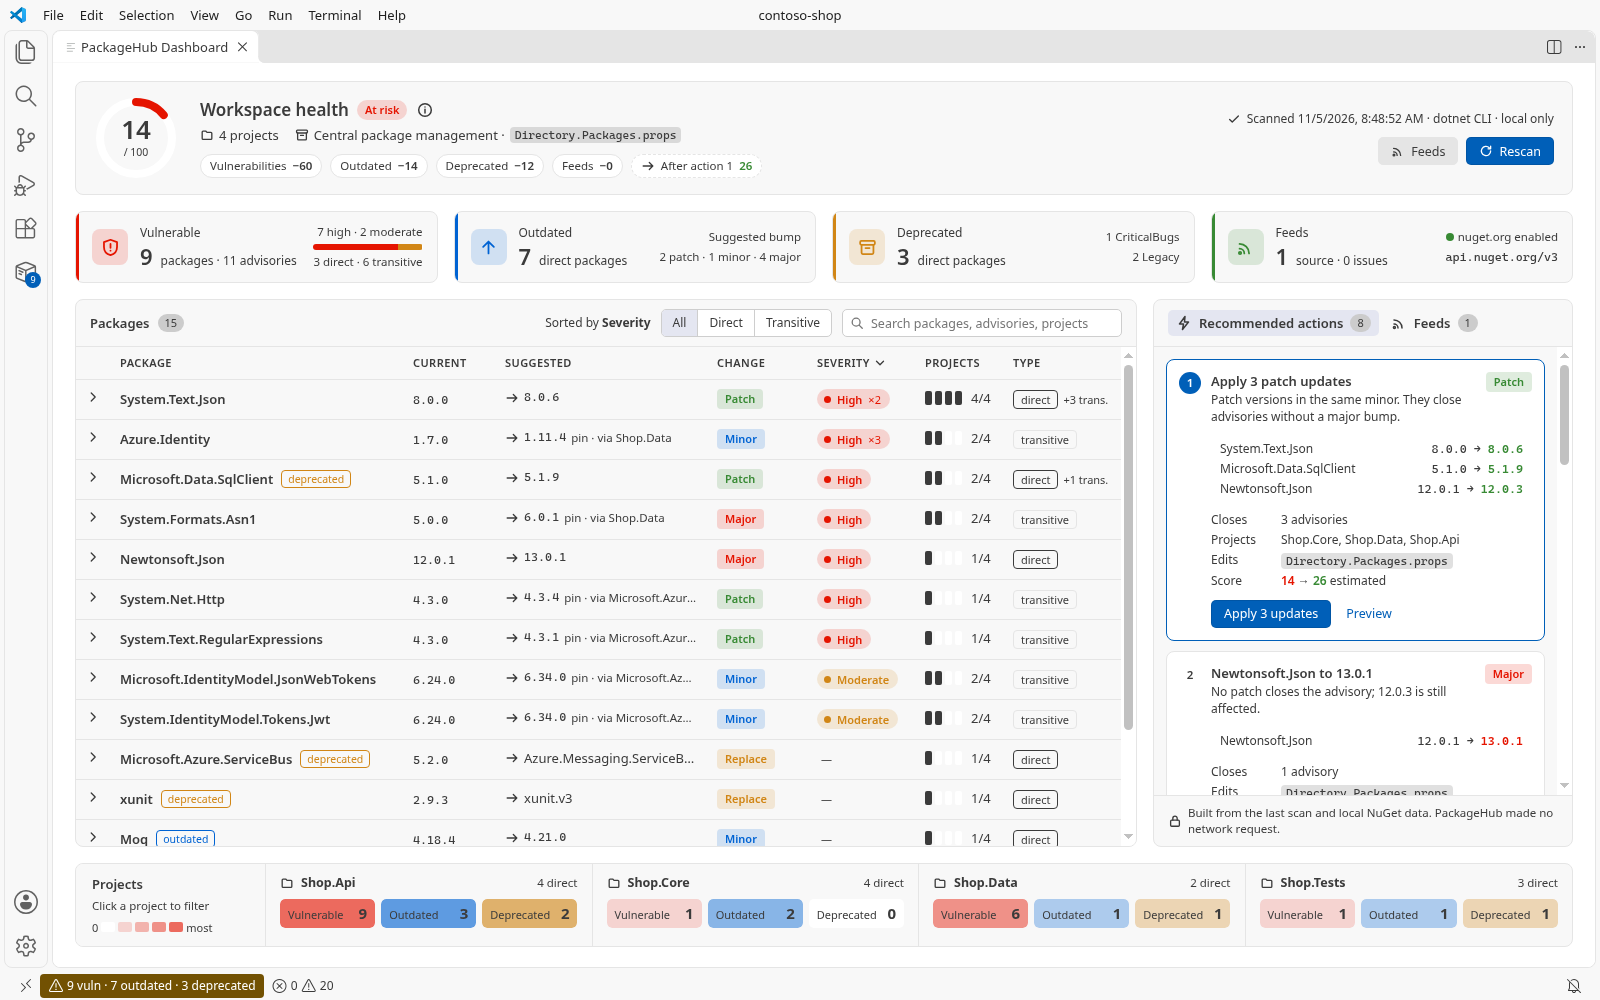
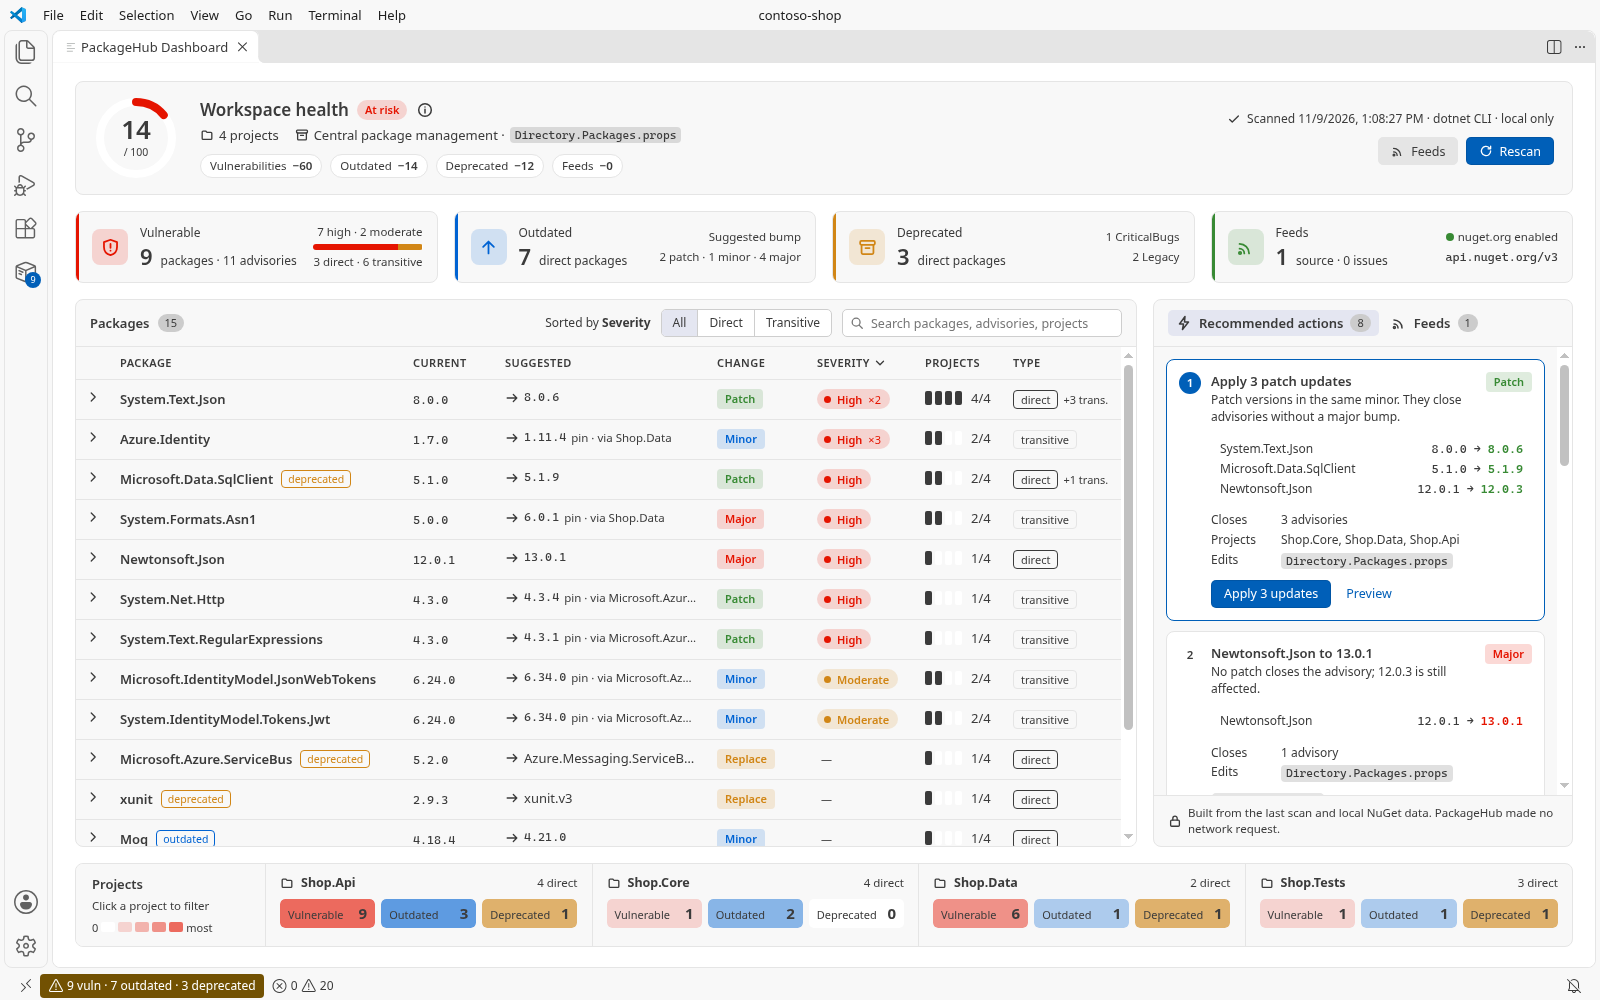
docs: note the dashboard fixes and refresh its screenshots

diff --git a/README.md b/README.md
@@ -79,7 +79,7 @@ The status bar counts vulnerable, outdated and deprecated packages, and says whe
 
 - **Health score** from 0 to 100. Vulnerable packages lower it by severity (critical 15, high 8, moderate 4, low 1, at most 60). Each outdated direct package takes 2 (at most 20), each deprecated one 4 (at most 12), and each failing feed 4 (at most 8). Hover the score to see the breakdown.
 - **Packages that need attention**: search, filter by vulnerable, outdated, deprecated, direct or transitive, and sort by any column. Expand a row for its advisories, the projects that use it, the path that brings a transitive package in, and the version that closes the advisories.
-- **Recommended actions**: the highest patch for every direct package, single updates where a patch is not enough, pins for transitive packages, and replacements for deprecated ones. Each shows the advisories it closes, the files it edits and the estimated score after it. **Preview** shows the update summary; **Apply** runs the same update as the rest of PackageHub, with the same confirmation.
+- **Recommended actions**: the highest patch for every direct package, single updates where a patch is not enough, pins for transitive packages, and replacements for deprecated ones. Each shows the advisories it closes, the projects and files it edits, and the estimated score after it when the score goes up. **Preview** shows the update summary; **Apply** runs the same update as the rest of PackageHub, with the same confirmation.
 - **Projects** shows a heatmap of vulnerable, outdated and deprecated packages per project. Click a project to filter the table.
 - **Feeds** shows the same source status as the Feeds group.
 

diff --git a/CHANGELOG.md b/CHANGELOG.md
@@ -6,6 +6,17 @@
 
 - New Health Dashboard: a health score with its breakdown, KPI cards, a package table you can search, filter, sort and expand (advisories, projects, the path that brings a transitive package in), recommended actions with Preview and Apply, a project heatmap and the feed status. It follows the color theme and is built from the last scan and local advisory data only.
 
+### Fixed
+
+- Dashboard updates only write the projects where the package is affected and older than the suggested version. `packageHub.updateVulnerable` never moves a project to an older version and lists the projects it leaves as they are.
+- A transitive warning whose origins are all missing from the resolved graph no longer gets a suggested pin or a Pin button.
+- The project heatmap counts each finding only in the projects where that report saw it.
+- Vulnerable packages without an advisory link count in the score, the Vulnerable card and the Vulnerable filter.
+- Preview lists every project the update writes, including the transitive ones that get a direct reference.
+- The score estimate for the patch action keeps the advisories a patch leaves open, at their own severity, and the transitive occurrences the patch does not edit.
+- The Package column keeps a minimum width; the table scrolls sideways in a narrow panel.
+- Expanding a row with Enter or Space keeps the focus on that row.
+
 ### Removed
 
 - The `packageHub.dashboardViewMode` setting. The table and the project heatmap replace the List, By project and By package layouts.
